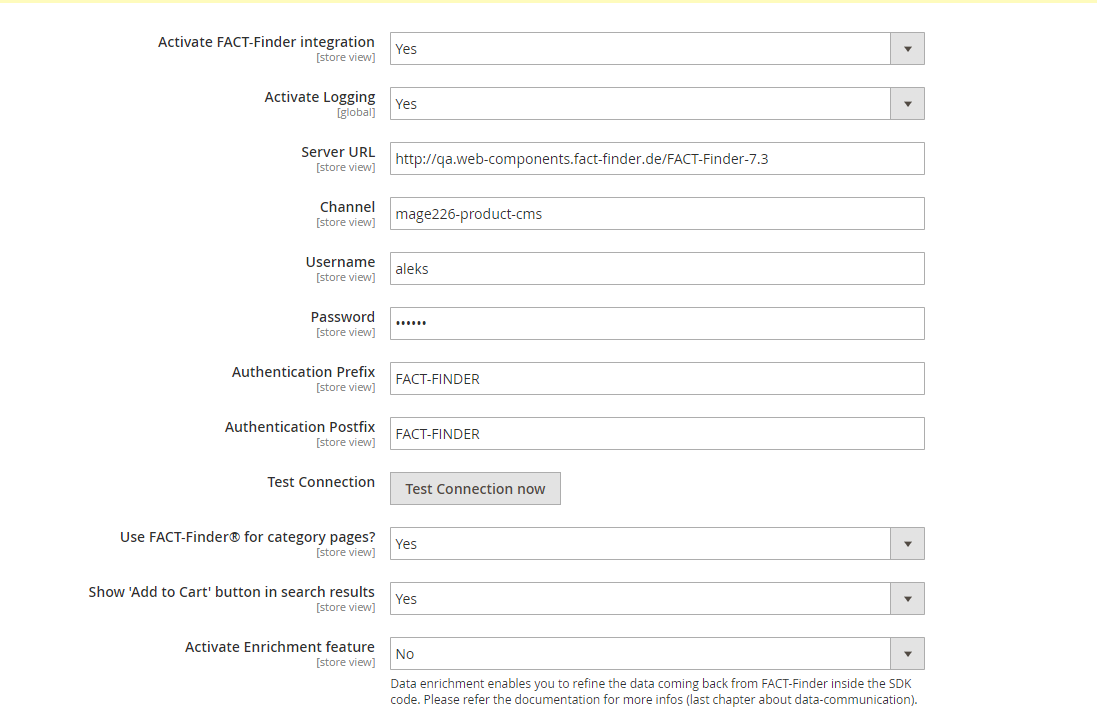
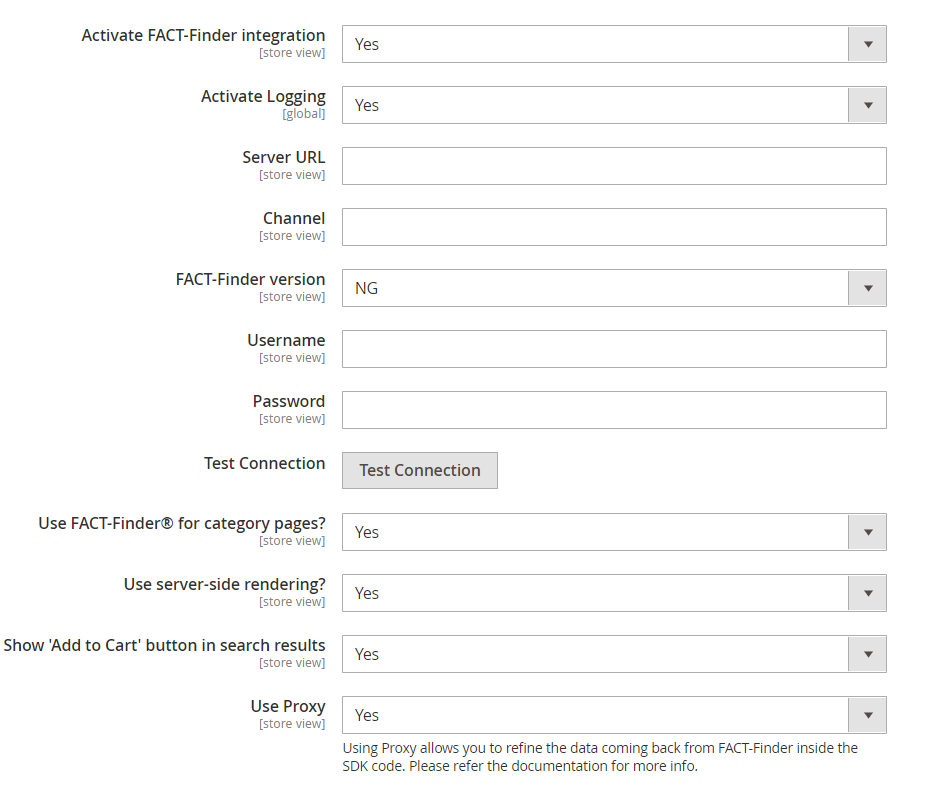
documentation and changelog v2

Changed region(s): [[0.0, 0.0, 1.0, 0.9697], [0.889, 0.6364, 0.9503, 0.7576], [0.889, 0.3333, 0.9503, 0.3939]]

diff --git a/README.md b/README.md
@@ -15,10 +15,12 @@ customise them.
 - [Installation](#installation)
 - [Activating the Module](#activating-the-module)
 - [Backend Configuration](#backend-configuration)
-    - [General Settings](#general-settings)
+    - [Main Settings](#main-settings)
+        - [Server Side Rendering](#server-side-rendering)
     - [Advanced Settings](#advanced-settings)
     - [Activated Web Components](#activated-web-components)
     - [Export Settings](#export-settings)
+    - [CMS Export Settings](#cms-export-settings)
     - [Data Transfer Settings](#data-transfer-settings)
         - [Updating Field Roles](#updating-field-roles)
         - [Automatic Import](#automatic-import)
@@ -28,11 +30,12 @@ customise them.
         - [HTTP Export](#http-export)
     - [Console Command](#console-command)
 - [Web Component Integration](#web-component-integration)
+    - [Communication Element](#communication-element)
     - [Searchbox Integration and Functions](#searchbox-integration-and-functions)
     - [Process of Data Transfer between Shop and FACT-Finder](#process-of-data-transfer-between-shop-and-fact-finder)
         - [Using Proxy](#using-proxy)
     - [Using FACT-Finder on category pages](#using-fact-finder-on-category-pages)
-    - [Tracking event listeners](#tracking-event-listeners)
+    - [Tracking](#tracking)
 - [Modification examples](#modification-examples)
     - [Changing existing column names](#changing-existing-column-names)
     - [Adding new column](#adding-new-column)
@@ -82,9 +85,9 @@ Also, check in the Magento 2 backend "Stores → Configuration → Advanced → 
 
 Once the FACT-Finder module is activated, you can find the configurations page under "Stores → Configuration → Catalog → FACT-Finder". Here you can customise the connection to the FACT-Finder service. You can also activate and deactivate single web components, as well as access many additional settings.
 
-### General Settings
+### Main Settings
 
-At the top of the configurations page are the general settings. The information with which the shop connects to and authorises itself to the FACT-Finder Service are entered here. In the first line, activate your FACT-Finder integration. Before any changes become active, save them by clicking "Save Config".
+At the top of the configurations page are the main settings. The information with which the shop connects to and authorises itself to the FACT-Finder Service are entered here. In the first line, activate your FACT-Finder integration. Before any changes become active, save them by clicking "Save Config".
 In some cases, you need to manually empty the cache (*Configuration* and *Page Cache*).
 Click the button "Test Connection" to check the connection to the FACT-Finder service.
 
@@ -92,7 +95,7 @@ Click the button "Test Connection" to check the connection to the FACT-Finder se
 
 Here you can also enable the rendering of category pages using FACT-Finder. More details can be found [here](#using-fact-finder-on-category-pages).
 
-At the end of the *General Settings* section is an option *Show 'Add to Cart' Button in Search Results*. Activate this option to add a button to the products displayed on the search result page, which directly
+At the end of the *Main Settings* section is an option *Show 'Add to Cart' Button in Search Results*. Activate this option to add a button to the products displayed on the search result page, which directly
 adds that product to the shopping cart. This feature works only for simple products. For configurable products user will be redirected to product page to choose specific product variant.
 Warning: The product added to the cart is identified by the variable "MasterProductNumber". To allow this function to work correctly, the field "MasterProductNumber" must be imported to the FACT-Finder backend (on fact-finder.de).   
 
@@ -100,7 +103,16 @@ By enabling option *Activate Logging*, all exceptions thrown during communicatio
 
 **Note:** that is a server side communication option: Web Components behaviour won't be affected.
 
-![General Settings](docs/assets/general-settings.png "General Settings")
+![Main Settings](docs/assets/general-settings.png "Main Settings")
+
+#### Server Side Rendering
+That option enables Server Side Rendering (SSR) for `ff-record-list` element on category and search result pages.
+That means when user navigate to a page of mentioned type, the HTML output will contain the pre-rendered custom elements.
+This is useful especially in terms of SEO because `ff-record-list` renders product data which could have much impact on page rating in browser.
+Without SSR enabled, web crawlers could not have a chance to scan the element rendered content because it will not yet be rendered on the time of scanning.
+The module uses [Mustache.php](https://github.com/bobthecow/mustache.php) library for template processing
+
+**Note:** More information about SSR concept you can find in the article [Server Side Rendering](https://web-components.fact-finder.de/documentation/4.x/server-side-rendering) from Web Components documentation.
 
 ### Advanced Settings
 
@@ -115,6 +127,7 @@ component as respectively `currency-code` and `country-code` parameters. You can
 
 ### Export Settings
 ![Product Data Export](docs/assets/export-settings.png "Product Data Export")
+
 In this section users can decide if the attributes should be exported as single fields or grouped into a multi-attribute field.
 Setting Multi-Attribute to No will result attribute being part of cumulative column FilterAttribute.
 Setting value to Yes will result attribute will be exported into separated column.
@@ -125,6 +138,19 @@ Setting value to Yes will result attribute will be exported into separated colum
 - select
 - multiselect
 - all scalars
+
+### CMS Export Settings
+
+You can export Your CMS pages to FACT-Finder to present them in suggest results.
+
+![CMS Export Settings](docs/assets/cms-settings.png "CMS Export Settings - using single channel")
+
+- **Pages Blacklist** - allow user to filter out pages, which should not be exported, for example "404 Not Found page"
+  should not be visible at suggested records
+
+If you want to start using CMS export in your project, please contact a person from FACT-Finder who is assigned to your project or ask our Service Desk.
+
+**Note:** CMS Export is available only via console command
 
 ### Data Transfer Settings
 This option configures the connection with the FACT-Finder system via FTP. Shop data can be generated and transferred to
@@ -187,13 +213,16 @@ You should provide this URL in Your FACT-Finder UI
 ![FACT-Finder Import settings](docs/assets/import-settings.png "Import settings")
 
 ### Console Command
-If You are developer and want to test feed is generated correctly or You do not want to executing magento cron
+If You are a developer and want to test feed is generated correctly or You do not want to executing magento cron
 You can use console command which is implementation of Command of Symfony Console Component, builtin in Magento2. 
-Command name: `factfinder:export:products`. You can add execution of this command to Your crontab file.
-You can customize execution be configuring following options (which all are optional)
-- store - define a store, which the product data will be taken from
-- skip-ftp-upload - skips the ftp upload
-- skip-push-import - skips triggering import
+Command name: `factfinder:export [TYPE]`. You can add execution of this command to Your crontab file.
+- Arguments:
+    - type (mandatory) - set the `FeedFactory` class with a type of data to be exported. If for a given type, no data provider exists, an exception will be thrown. Possible default values are `products` and `cms`.
+- Options (all optional)
+    - store - define a store, which the product data will be taken from
+    - skip-ftp-upload - skips the ftp upload
+    - skip-push-import - skips triggering import
+    
 ## Web Component Integration
 
 You can activate and deactivate any web components from the configurations page in the Magento 2 backend.
@@ -210,10 +239,6 @@ Since Magento 2 is using Less, all source styles are written in this stylesheet 
  
     src/view/frontend/web/css/source/_module.less
 
-Warning: After changing static content styles, you need to restart the Magento 2 environment, for Magento to be able to find them. Use this command:
-
-    php bin/magento setup:upgrade
-    php bin/magento setup:static-content:deploy  
 
 You can integrate the templates anywhere within your shop system. The recommended way is to use Magento2 layouts for that.
 As an example, the `ff-suggest` element was integrated into the `ff-searchbox` template for this SDK: 
@@ -235,6 +260,13 @@ You can also instantiate block in templates using the Magento Layout API, but it
 ->setTemplate('Omikron_Factfinder::ff/suggest.phtml')
 ->toHtml(); ?>
 ```
+
+### Communication Element
+The main configuration element of Web Components `ff-communication` element is included in template `src/view/frontend/templates/ff/communication.phtml` which comes together with a dedicated view model `src/ViewModel/Communication.php`.
+This template is part of the `default` layout, added to the `after.body.start` container.
+It is essential for whole module to work, so make sure it is also included in your project.
+
+**Note:** Avoid overriding both the template and view model.
 
 ### Searchbox Integration and Functions
 
@@ -261,24 +293,32 @@ By enabling this, once a search query is sent, it does not immediately reach FAC
     src/Controller/Proxy/Call.php
 
 which hands the request to the FACT-Finder system, receives the answer, processes it and only then returns it to the frontend/web component.
-Once response from FACT-Finder is available, proxy controller emits an `ff_proxy_post_dispatch` event which allows user to listen in order to modify and enrich recieved data.
+You can add a `afterExecute` plugin using Magento Interceptor mechanism to enrich data received from FACT-Finder.
 
 **Note:**
-Sending each request to FACT-Finder instance trough Magento, you lose on performance as each request need to be handled first by HTTP server and then, by Magento itself. This additional traffic could be easily avoided by not activating this feature if there's no clear reason to use it
+Sending each request to FACT-Finder instance trough Magento, you lose on performance as each request need to be handled first by HTTP server and then, by Magento itself. This additional traffic could be easily avoided by not activating this feature if there's no clear reason to use it.
 
 ### Using FACT-Finder on category pages
 Module in order to preserve categories URLs and hence SEO get use of standard Magento routing with the combination of FACT-Finder availability to pass custom parameters to search request.
 Once user is landed on category page. Search request is performed immediately (thanks to `search-immediate` communication parameter usage).
 To enable that, turn on corresponding option in *Main Settings* section.
  
-### Tracking event listeners
-The module defines two event listeners for the checkout process:
-* `checkout_cart_add_product_complete`: adding product to cart - defined in `frontend/events.xml`
-* `checkout_submit_all_after`: placing an order - defined in `webapi_rest/events.xml`
+### Tracking
+The module uses Web Components API to track following events:
+- click on product
+- add product to cart
+- purchase an order
+- user login
 
-If you are planning to customize the add-to-cart/checkout process, make sure that the event definitions are placed in the correct areas.
-For instance if your are not using REST API in checkout move the `checkout_submit_all_after` event listener definition from `webapi_rest/events.xml` to `frontend/events.xml`.
-If you are using custom controllers, also make sure that they  emit these events. If not, tracking will not take place.
+To track product click make sure your record template uses `data-redirect` directive described in [Tracking guide](https://web-components.fact-finder.de/documentation/4.x/tracking-guide).
+Adding to cart is tracked using WEB Components API in `src/view/frontend/web/js/catalog-add-to-cart-mixin.js:28` script.
+To make it work, make sure that you are using base `catalog-add-to-cart.js`, otherwise the mixing will not be applied. 
+Checkout tracking is done using the `ff-checkout-tracking` element.
+This element is added in `src/view/frontend/templates/ff/checkout-tracking.phtml` which extend the `checkout_onepage_success` layout.
+If you do not use this layout in your checkout make sure you append it to your own one. For that you can use the view model `src/ViewModel/Order.php` which provides all necessary data from the backend to the template.
+Login tracking is by additional `CustomerData` section `ffcommunication`.
+This section should is configured in `src/etc/frontend/sections.xml` and should react to the user login action and reload containing data after that.
+
  
 ## Modification examples
 Our Magento 2 module offers a fully working integration out of the box. However, most projects may require

diff --git a/CHANGELOG.md b/CHANGELOG.md
@@ -1,13 +1,36 @@
 # Changelog
-## Unreleased
+## [v2.0.0] - 2021.04.30
+## BREAKING
+- Removed config models interfaces which appeared to be unnecessary. Their only responsibility is to fetch stored config and it is unlikely to need a different implementation.  
+    - `CommunicationConfigInterface`
+    - `AuthConfigInterface`
+    - `FeatureConfigInterface`
+
+- Removed interfaces for classes which supposed to be treated as final, in order to maintain correct integration between Magento2 and the Web Components.
+    - `FieldRolesInterface`
+    - `SessionDataInterface`
+
+- Renamed `ProductFieldInterface` to `FieldInterface` to make it more generic. Now it could be also used for different types of export.
+- Reworked ExportProducts command. Now its a generic Export and it requires mandatory argument of type which indicates of type of data to be exported. 
+- Rework tracking to use sid generated by WebComponents and for now it is executed on the storefront. Following backend observers has been removed:
+    - `AddToCart`
+    - `Checkout`  
+  From now, tracking takes place on the store front.
+
+- Communication layer has been entirely replaced with (PHP Communication SDK)[https://github.com/FACT-Finder-Web-Components/php-communication-sdk]. 
+- Improved attribute export. User can now select if a given attribute should be exported in a separate column or aggregated in multi attribute column `FilterAttributes`
+
 ### Added
-- Users can decide now if the attributes should be exported as single fields or grouped into a multi-attribute field
+- Add Server Side Rendering support.
 
 ### Changed
-- Simplify module configuration
-- Remove CMS export from the module
-- Rework tracking to use sid generated by WebComponents
-- Use external communication library to communicate with a FACT-finder on the store backend
+- Simplify module configuration by remove Activated Web Components Section. Whether an element should be rendered or not should be determined by the template implementation, not by the configuration
+- Upgrade Web Components to version 4.0.2
+- Searchbox element is not moved to `content` block in `factfinder_result_index` layout
+ 
+### Fixed
+- Prevent array to string conversion when exporting products select attribute option
+- Event data coming from searchbox element is not URLencoded before redirecting to search result page
 
 ## [v1.6.5] - 2020.12.16
 ### Changed
